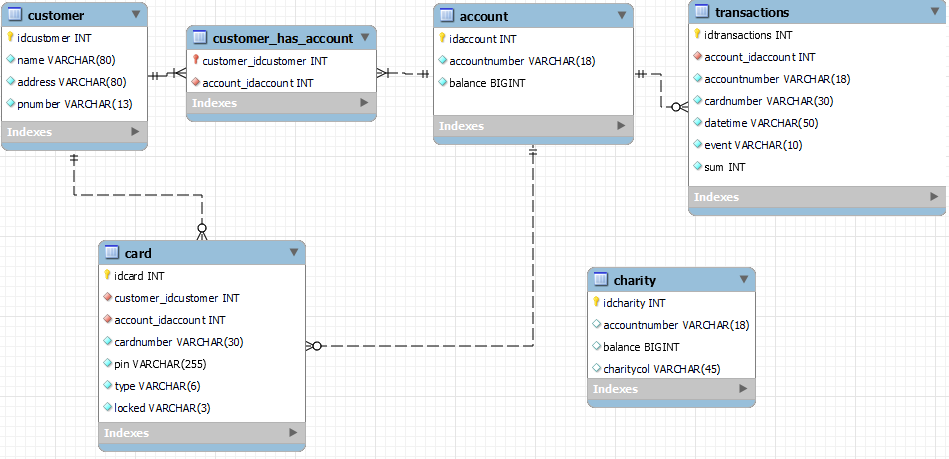
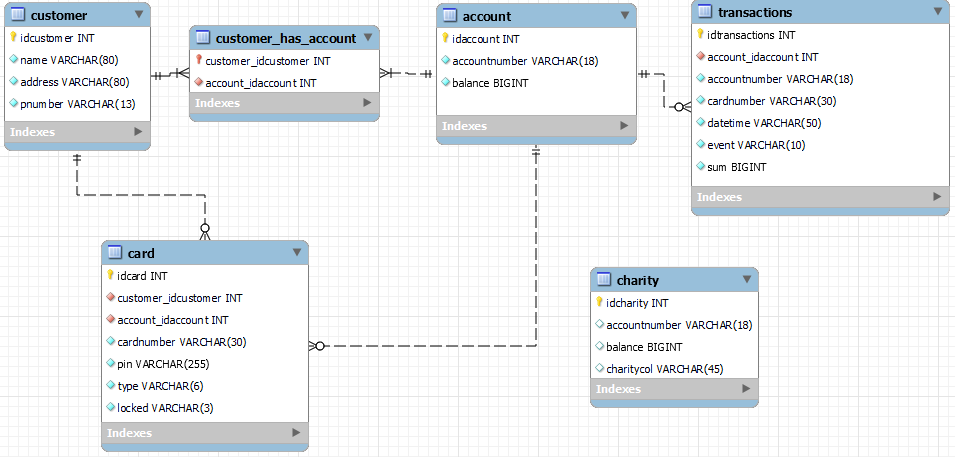
Add handling for really large transactions

diff --git a/rest_api_dll/restapiengine.cpp b/rest_api_dll/restapiengine.cpp
@@ -41,11 +41,11 @@ void RestApiEngine::login(QString cardnumber, QString pin)
     // All of the following functions are similar in construct
 }
 
-void RestApiEngine::creditWithdrawal(QString cardnumber, QString amount)
+void RestApiEngine::creditWithdrawal(QString cardnumber, long long amount)
 {
     QJsonObject jsonObj;
     jsonObj.insert("cardnumber", cardnumber);
-    jsonObj.insert("amount", amount);
+    jsonObj.insert("amount", QString::number(amount));
 
     QNetworkRequest request((base_url + "/withdrawal/credit"));
     request.setHeader(QNetworkRequest::ContentTypeHeader, "application/json");
@@ -60,11 +60,11 @@ void RestApiEngine::creditWithdrawal(QString cardnumber, QString amount)
     reply = manager->post(request, QJsonDocument(jsonObj).toJson());
 }
 
-void RestApiEngine::debitWithdrawal(QString cardnumber, QString amount)
+void RestApiEngine::debitWithdrawal(QString cardnumber, long long amount)
 {
     QJsonObject jsonObj;
     jsonObj.insert("cardnumber", cardnumber);
-    jsonObj.insert("amount", amount);
+    jsonObj.insert("amount", QString::number(amount));
 
     QNetworkRequest request((base_url + "/withdrawal/debit"));
     request.setHeader(QNetworkRequest::ContentTypeHeader, "application/json");
@@ -78,12 +78,12 @@ void RestApiEngine::debitWithdrawal(QString cardnumber, QString amount)
     reply = manager->post(request, QJsonDocument(jsonObj).toJson());
 }
 
-void RestApiEngine::creditDonation(QString cardnumber, QString accountnumber, QString amount)
+void RestApiEngine::creditDonation(QString cardnumber, QString accountnumber, long long amount)
 {
     QJsonObject jsonObj;
     jsonObj.insert("cardnumber", cardnumber);
     jsonObj.insert("accountnumber", accountnumber);
-    jsonObj.insert("amount", amount);
+    jsonObj.insert("amount", QString::number(amount));
 
     QNetworkRequest request((base_url + "/donation/credit"));
     request.setHeader(QNetworkRequest::ContentTypeHeader, "application/json");
@@ -97,13 +97,13 @@ void RestApiEngine::creditDonation(QString cardnumber, QString accountnumber, QS
     reply = manager->post(request, QJsonDocument(jsonObj).toJson());
 }
 
-void RestApiEngine::debitDonation(QString cardnumber, QString accountnumber, QString amount)
+void RestApiEngine::debitDonation(QString cardnumber, QString accountnumber, long long amount)
 {
 
     QJsonObject jsonObj;
     jsonObj.insert("cardnumber", cardnumber);
     jsonObj.insert("accountnumber", accountnumber);
-    jsonObj.insert("amount", amount);
+    jsonObj.insert("amount", QString::number(amount));
 
     QNetworkRequest request((base_url + "/donation/debit"));
     request.setHeader(QNetworkRequest::ContentTypeHeader, "application/json");

diff --git a/rest_api_dll/restapi.h b/rest_api_dll/restapi.h
@@ -33,13 +33,13 @@ public:
 
     // Performs a withdrawal from the bank account. Arguments provided = cardnumber,
     // QString amount IN CENTS! Doesn't return a signal to the main program.
-    void creditWithdrawal(QString cardnumber, QString amount);
-    void debitWithdrawal(QString cardnumber, QString amount);
+    void creditWithdrawal(QString cardnumber, long long amount);
+    void debitWithdrawal(QString cardnumber, long long amount);
 
     // These are the same as above but being charity donations the account number of the
     // charity where the donation is going is needed for the operation
-    void creditDonation(QString cardnumber, QString accountnumber, QString amount);
-    void debitDonation(QString cardnumber, QString accountnumber, QString amount);
+    void creditDonation(QString cardnumber, QString accountnumber, long long amount);
+    void debitDonation(QString cardnumber, QString accountnumber, long long amount);
 
     // This will update whether the card is locked (yes or no)
     void putLocked(QString cardnumber, QString locked);

diff --git a/rest_api_dll/restapi.cpp b/rest_api_dll/restapi.cpp
@@ -56,22 +56,22 @@ void RestApi::login(QString cardnumber, QString pin)
     pRestApiEngine->login(cardnumber, pin);
 }
 
-void RestApi::creditWithdrawal(QString cardnumber, QString amount)
+void RestApi::creditWithdrawal(QString cardnumber, long long amount)
 {
     pRestApiEngine->creditWithdrawal(cardnumber, amount);
 }
 
-void RestApi::debitWithdrawal(QString cardnumber, QString amount)
+void RestApi::debitWithdrawal(QString cardnumber, long long amount)
 {
     pRestApiEngine->debitWithdrawal(cardnumber, amount);
 }
 
-void RestApi::creditDonation(QString cardnumber, QString accountnumber, QString amount)
+void RestApi::creditDonation(QString cardnumber, QString accountnumber, long long amount)
 {
     pRestApiEngine->creditDonation(cardnumber, accountnumber, amount);
 }
 
-void RestApi::debitDonation(QString cardnumber, QString accountnumber, QString amount)
+void RestApi::debitDonation(QString cardnumber, QString accountnumber, long long amount)
 {
     pRestApiEngine->debitDonation(cardnumber, accountnumber, amount);
 }

diff --git a/rest_api_dll/restapiengine.h b/rest_api_dll/restapiengine.h
@@ -20,10 +20,10 @@ public:
 
     void login(QString cardnumber, QString pin);
 
-    void creditWithdrawal(QString cardnumber, QString amount);
-    void debitWithdrawal(QString cardnumber, QString amount);
-    void creditDonation(QString cardnumber, QString accountnumber, QString amount);
-    void debitDonation(QString cardnumber, QString accountnumber, QString amount);
+    void creditWithdrawal(QString cardnumber, long long amount);
+    void debitWithdrawal(QString cardnumber, long long amount);
+    void creditDonation(QString cardnumber, QString accountnumber, long long amount);
+    void debitDonation(QString cardnumber, QString accountnumber, long long amount);
 
     void putLocked(QString cardnumber, QString locked);
 
